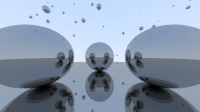
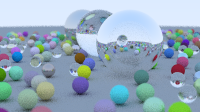
Completed pt 1

diff --git a/src/main.rs b/src/main.rs
@@ -6,11 +6,11 @@ use rand::Rng;
 use std::rc::Rc;
 
 const ASPECT_RATIO: f32 = 16.0 / 9.0;
-const WIDTH: u32 = 1000;
+const WIDTH: u32 = 1200;
 const HEIGHT: u32 = (WIDTH as f32 / ASPECT_RATIO) as u32;
 
-const SAMPLES_PER_PIXEL: u32 = 200;
-const MAX_DEPTH: i32 = 100;
+const SAMPLES_PER_PIXEL: u32 = 600;
+const MAX_DEPTH: i32 = 60;
 
 fn main() {
     println!("Begin render {}x{}", WIDTH, HEIGHT);
@@ -18,46 +18,47 @@ fn main() {
     // Image
     let mut image_buffer = ImageBuffer::new(WIDTH, HEIGHT);
     // Camera
-    let camera: Camera = Camera::new(2.4, ASPECT_RATIO);
+    let look_from = Vec3::new(13.0, 2.0, 3.0);
+    let look_at = Vec3::new(0.0, 0.0, 0.0);
+    let camera: Camera = Camera::new(
+        look_from,
+        look_at,
+        Vec3::new(0.0, 1.0, 0.0),
+        0.35,
+        ASPECT_RATIO,
+        0.1,
+        10.0,
+    );
     let mut rng = rand::thread_rng();
 
     // World
     let mut hittable_list: HittableList = HittableList {
         objects: Vec::from([
             Box::new(Sphere::new(
-                Vec3::new(-1.0, 0.0, -1.0),
-                0.5,
+                Vec3::new(4.0, 1.0, 0.0),
+                1.0,
                 Rc::new(Metal {
-                    albedo: Vec3::new(0.5, 0.5, 0.5),
-                    fuzz: 0.3,
-                }) as Rc<_>,
-            )) as Box<_>,
-            Box::new(Sphere::new(
-                Vec3::new(0.0, 0.0, -2.0),
-                0.5,
-                Rc::new(Metal {
-                    albedo: Vec3::new(0.5, 0.5, 0.5),
-                    fuzz: 0.01,
-                }) as Rc<_>,
-            )) as Box<_>,
-            Box::new(Sphere::new(
-                Vec3::new(0.0, 0.0, -0.5),
-                0.5,
-                Rc::new(Dielectric {
-                    index_of_refraction: 1.1,
-                }) as Rc<_>,
-            )) as Box<_>,
-            Box::new(Sphere::new(
-                Vec3::new(1.0, 0.0, -1.0),
-                0.5,
-                Rc::new(Metal {
-                    albedo: Vec3::new(0.5, 0.5, 0.5),
+                    albedo: Vec3::new(0.8, 0.8, 0.8),
                     fuzz: 0.0,
                 }) as Rc<_>,
             )) as Box<_>,
             Box::new(Sphere::new(
-                Vec3::new(0.0, -100.5, -1.0),
-                100.0,
+                Vec3::new(0.0, 1.0, 0.0),
+                1.0,
+                Rc::new(Dielectric {
+                    index_of_refraction: 1.5,
+                }) as Rc<_>,
+            )) as Box<_>,
+            Box::new(Sphere::new(
+                Vec3::new(-4.0, 1.0, 0.0),
+                -1.0,
+                Rc::new(Dielectric {
+                    index_of_refraction: 1.5,
+                }) as Rc<_>,
+            )) as Box<_>,
+            Box::new(Sphere::new(
+                Vec3::new(0.0, -1000.0, -1.0),
+                1000.0,
                 Rc::new(Lambertian {
                     albedo: Vec3::new(0.5, 0.5, 0.5),
                 }) as Rc<_>,
@@ -65,22 +66,64 @@ fn main() {
         ]),
     };
 
-    // for n in 0..100 {
-    //     hittable_list.objects.insert(
-    //         0,
-    //         Box::new(Sphere {
-    //             center: Vec3::new(
-    //                 rng.gen_range(0.0..60.0) - 30.0,
-    //                 rng.gen_range(0.0..20.0),
-    //                 -rng.gen_range(0.0..30.0) + 5.0,
-    //             ),
-    //             radius: rng.gen_range(0.1..0.4),
-    //             material: Rc::new(Metal {
-    //                 albedo: Vec3::new(0.5, 0.5, 0.5),
-    //             }),
-    //         }) as Box<_>,
-    //     );
-    // }
+    for a in -11..11 {
+        for b in -11..11 {
+            let choose_mat = rng.gen_range(0.0..1.0);
+            let center = Vec3::new(
+                a as f32 + 0.9 * rng.gen_range(0.0..1.0),
+                0.2,
+                b as f32 + 0.9 * rng.gen_range(0.0..1.0),
+            );
+
+            if ((center - Vec3::new(4.0, 0.2, 0.0)).length() < 0.9) {
+                continue;
+            }
+
+            if (choose_mat < 0.7) {
+                hittable_list.objects.insert(
+                    0,
+                    Box::new(Sphere {
+                        center: center,
+                        radius: 0.2,
+                        material: Rc::new(Lambertian {
+                            albedo: Vec3::new(
+                                rng.gen_range(0.0..1.0),
+                                rng.gen_range(0.0..1.0),
+                                rng.gen_range(0.0..1.0),
+                            ),
+                        }),
+                    }) as Box<_>,
+                );
+            } else if (choose_mat < 0.9) {
+                hittable_list.objects.insert(
+                    0,
+                    Box::new(Sphere {
+                        center: center,
+                        radius: 0.2,
+                        material: Rc::new(Metal {
+                            fuzz: rng.gen_range(0.0..0.5),
+                            albedo: Vec3::new(
+                                rng.gen_range(0.5..1.0),
+                                rng.gen_range(0.5..1.0),
+                                rng.gen_range(0.5..1.0),
+                            ),
+                        }),
+                    }) as Box<_>,
+                );
+            } else {
+                hittable_list.objects.insert(
+                    0,
+                    Box::new(Sphere {
+                        center: center,
+                        radius: 0.2,
+                        material: Rc::new(Dielectric {
+                            index_of_refraction: 1.5,
+                        }),
+                    }) as Box<_>,
+                );
+            }
+        }
+    }
 
     let pixel_multiplier = Vec3::new(255.0, 255.0, 255.0);
     let samples = Vec3::new(
@@ -97,7 +140,7 @@ fn main() {
                 let u = (x as f32 + rng.gen_range(0.0..1.0)) / (WIDTH as f32 - 1.0);
                 let v = (y as f32 + rng.gen_range(0.0..1.0)) / (HEIGHT as f32 - 1.0);
 
-                let r = camera.get_ray(u, v);
+                let r = camera.get_ray(u, v, &mut rng);
                 pixel_color += r.color(&hittable_list, &mut rng, MAX_DEPTH);
             }
 
@@ -125,33 +168,66 @@ pub struct Camera {
     bottom_left: Vec3,
     horizontal: Vec3,
     vertical: Vec3,
+    lens_radius: f32,
+    u: Vec3,
+    v: Vec3,
+    w: Vec3,
 }
 
 impl Camera {
-    pub fn new(vertical_fov: f32, aspect_ratio: f32) -> Self {
-        let viewport_height = (vertical_fov / 2.0).tan();
+    pub fn new(
+        look_from: Vec3,
+        look_at: Vec3,
+        v_up: Vec3,
+        vertical_fov: f32,
+        aspect_ratio: f32,
+        aperture: f32,
+        focus_dist: f32,
+    ) -> Self {
+        let h = (vertical_fov / 2.0).tan();
+        let viewport_height = 2.0 * h;
         let viewport_width = aspect_ratio * viewport_height;
-        let focal_length = 1.0;
 
-        let origin = Vec3::new(0.0, 0.0, 0.0);
-        let horizontal = Vec3::new(viewport_width, 0.0, 0.0);
-        let vertical = Vec3::new(0.0, viewport_height, 0.0);
-        let bottom_left =
-            origin - horizontal / 2.0 - vertical / 2.0 - Vec3::new(0.0, 0.0, focal_length);
+        let w = (look_from - look_at).normalize();
+        let u = Vec3::cross(v_up, w).normalize();
+        let v = Vec3::cross(w, u);
+
+        let horizontal = focus_dist * viewport_width * u;
+        let vertical = focus_dist * viewport_height * v;
+
+        let bottom_left = look_from - horizontal / 2.0 - vertical / 2.0 - focus_dist * w;
 
         Camera {
-            origin,
-            horizontal,
-            vertical,
+            origin: look_from,
+            horizontal: focus_dist * viewport_width * u,
+            vertical: focus_dist * viewport_height * v,
             bottom_left,
+            lens_radius: aperture / 2.0,
+            u,
+            v,
+            w,
         }
     }
 
-    pub fn get_ray(&self, u: f32, v: f32) -> Ray {
+    pub fn get_ray(&self, s: f32, t: f32, rng: &mut ThreadRng) -> Ray {
+        let rd = self.lens_radius * Camera::random_in_unit_disk(rng);
+        let offset = self.u * rd.x + self.v * rd.y;
         return Ray {
-            pos: self.origin,
-            dir: self.bottom_left + u * self.horizontal + v * self.vertical - self.origin,
+            pos: self.origin + offset,
+            dir: self.bottom_left + s * self.horizontal + t * self.vertical - self.origin - offset,
         };
+    }
+
+    pub fn random_in_unit_disk(rng: &mut ThreadRng) -> Vec3 {
+        while true {
+            let p = Vec3::new(rng.gen_range(-1.0..1.0), rng.gen_range(-1.0..1.0), 0.0);
+            if (p.length_squared() >= 1.0) {
+                continue;
+            }
+            return p;
+        }
+
+        return Vec3::new(0.0, 0.0, 0.0);
     }
 }
 
